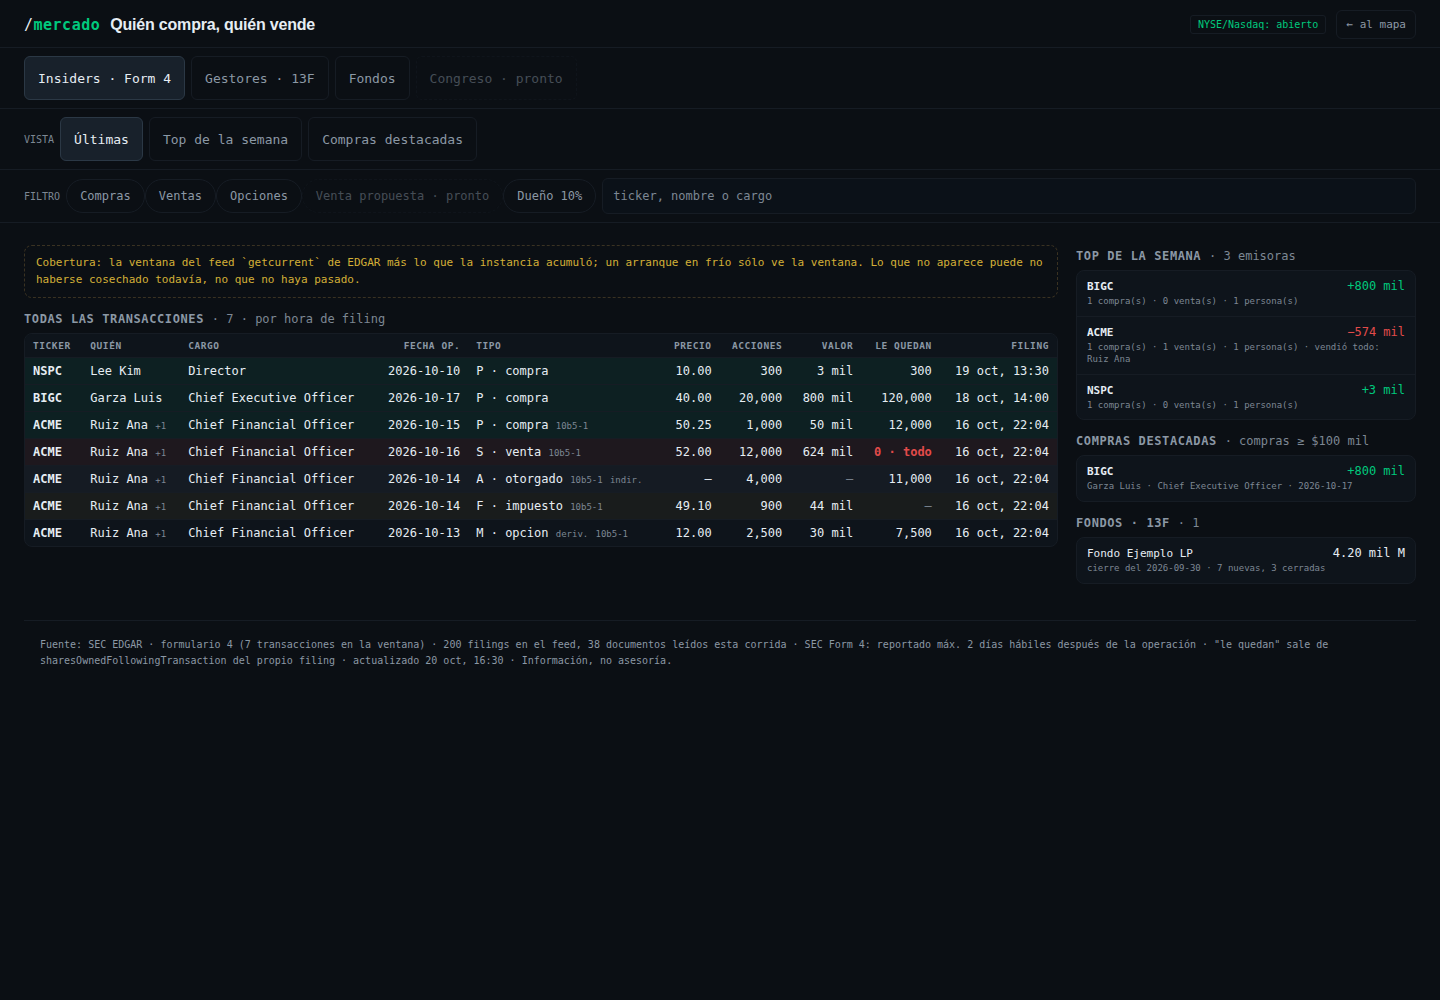
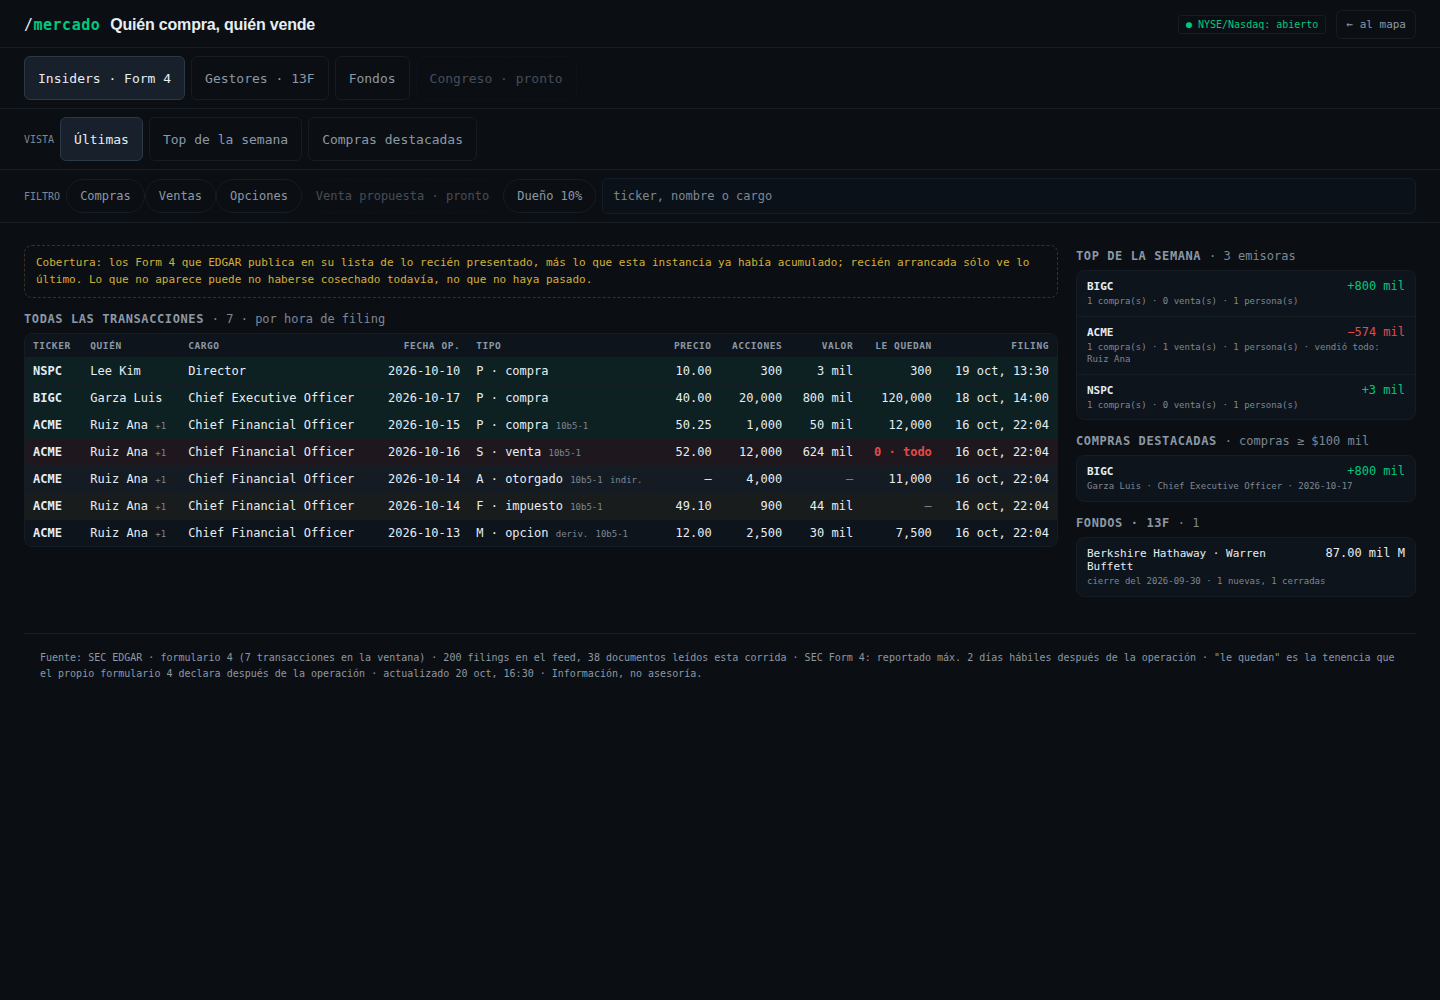
Los fondos se llamaban por su CIK, y el aviso de cobertura hablaba en código
Dos de los seis arreglos que pidió Lety tras revisar el preview contra prod.

1. EL FONDO SALÍA COMO "1067983" EN VEZ DE "BERKSHIRE HATHAWAY".
   La página leía `f.name`; el endpoint manda `fund` (y `persona`, que es la
   otra mitad de lo que hace reconocible a un fondo). Un CIK es correcto y es
   ilegible: identifica al fondo para la SEC, no para quien lee.

   Es el mismo defecto que tumbó la ficha de índice, y por la misma razón: el
   fixture de la corrida estaba escrito a mano con `name: 'Fondo Ejemplo LP'`,
   así que la comprobación medía mi invento. Ahora el fixture de 13F SALE DEL
   ENDPOINT: el script corre `build13F` de verdad fingiendo a la SEC
   —submissions, el índice del filing y el infoTable, en su forma cruda— y el
   diff entre trimestres se calcula con el código de producción.

2. EL AVISO DECÍA `getcurrent` ENTRE COMILLAS DE CÓDIGO.
   Ahora dice "los Form 4 que EDGAR publica en su lista de lo recién
   presentado". Y el pie decía que "le quedan" sale de
   `sharesOwnedFollowingTransaction`: ahora dice que es la tenencia que el
   propio formulario 4 declara después de la operación. La procedencia es la
   misma; lo que cambia es que ahora se entiende.

   La frase de cobertura ya no se copia en el fixture: se lee del archivo del
   endpoint. Copiarla fue exactamente cómo la jerga sobrevivió en pantalla.

   Y hay una comprobación nueva que recorre TODO el texto visible —incluidos
[…]

diff --git a/insiders.html b/insiders.html
@@ -412,7 +412,7 @@
       return;
     }
     el.innerHTML = fs.map(function(f){
-      return '<div class="fila-lado"><span class="k">' + esc(f.name || f.cik) + '</span>'
+      return '<div class="fila-lado"><span class="k">' + esc(nombreDeFondo(f)) + '</span>'
         + '<span class="v">' + fmtUsd(f.totalValue) + '</span>'
         + '<span class="f">cierre del ' + esc(f.quarterEnd || f.reportDate || '—')
         + (f.counts ? ' · ' + (f.counts.added || 0) + ' nuevas, ' + (f.counts.closed || 0) + ' cerradas' : '')
@@ -430,12 +430,14 @@
   }
 
   function pintarChip(){
+    // La misma función que el mapa. Sin `muestra`: esta pantalla enseña
+    // filings, no cierres, así que no nombra ninguna fecha de cierre ni se
+    // excusa por no tenerla.
     var el = document.getElementById('chip');
-    try{
-      var e = qdEstadoMercado('nyse', new Date());
-      el.textContent = 'NYSE/Nasdaq: ' + (e.texto || (e.abierto ? 'abierto' : 'cerrado'));
-      el.className = 'chip' + (e.abierto ? ' abierto' : '');
-    }catch(err){ el.textContent = 'sin estado de mercado'; }
+    var c = chipDeMercado('nyse', { ahora: new Date() });
+    el.textContent = c.chip;
+    el.title = c.motivo;
+    el.className = 'chip' + (c.abierto ? ' abierto' : '');
   }
 
   function pintarPie(){
@@ -446,7 +448,11 @@
       + (datos.scan ? ' · ' + datos.scan.atom_entries + ' filings en el feed, '
           + datos.scan.xml_fetched + ' documentos leídos esta corrida' : '')
       + ' · ' + (datos.lag_note || '')
-      + ' · "le quedan" sale de sharesOwnedFollowingTransaction del propio filing'
+      // El nombre del campo en el XML del Form 4 es
+      // `sharesOwnedFollowingTransaction`, y decirlo así en pantalla no
+      // informa a nadie: lo que importa es que el número sale del propio
+      // documento y no de una resta nuestra.
+      + ' · "le quedan" es la tenencia que el propio formulario 4 declara después de la operación'
       + ' · actualizado ' + hora(datos.generado_en || datos.generated_at)
       + ' · Información, no asesoría.';
   }
@@ -526,6 +532,23 @@
       }).join('') + '</tbody></table></div>';
   }
 
+  /**
+   * EL NOMBRE DEL FONDO. La llave es `fund`, no `name`.
+   *
+   * Esta página leía `f.name`, y el endpoint manda `fund` desde que existe.
+   * En pantalla salía el CIK —1067983— donde debía decir Berkshire Hathaway
+   * (Lety, 2026-10-20). Un CIK es correcto y es ilegible: identifica al fondo
+   * para la SEC, no para quien lee.
+   *
+   * La persona también viaja (`persona`: Warren Buffett) y es la mitad de lo
+   * que hace reconocible al fondo, así que se dice.
+   */
+  function nombreDeFondo(f){
+    var nom = f.fund || f.name || null;
+    if(!nom) return 'CIK ' + (f.cik || '—');
+    return f.persona ? nom + ' · ' + f.persona : nom;
+  }
+
   function pintar13f(){
     if(!datos13f) return '<div class="vacio">cargando los 13F…</div>';
     var fs = datos13f.funds || [];
@@ -534,7 +557,7 @@
     return fs.map(function(f){
       var bloques = ['added','closed','increased','reduced'];
       var nombres = { added:'Nuevas', closed:'Cerradas', increased:'Aumentadas', reduced:'Reducidas' };
-      return '<h2 style="margin-top:14px">' + esc(f.name || f.cik)
+      return '<h2 style="margin-top:14px">' + esc(nombreDeFondo(f))
         + ' <span>· cierre del ' + esc(f.quarterEnd || f.reportDate || '—')
         + ' · ' + fmtUsd(f.totalValue) + '</span></h2>'
         + '<div class="panel lado">' + bloques.map(function(b){

diff --git a/api/stock-tracker.js b/api/stock-tracker.js
@@ -722,7 +722,7 @@ async function buildForm4() {
     // (`api/_lib/form4.js`): una sola fuente de verdad por pantalla.
     scan: diag.scan || null,
     sources: diag.sources || {},
-    cobertura: 'la ventana del feed `getcurrent` de EDGAR más lo que la instancia acumuló; un arranque en frío sólo ve la ventana',
+    cobertura: 'los Form 4 que EDGAR publica en su lista de lo recién presentado, más lo que esta instancia ya había acumulado; recién arrancada sólo ve lo último',
     lag_note: 'SEC Form 4: reportado máx. 2 días hábiles después de la operación',
     stale: false,
     generated_at: new Date().toISOString(),
